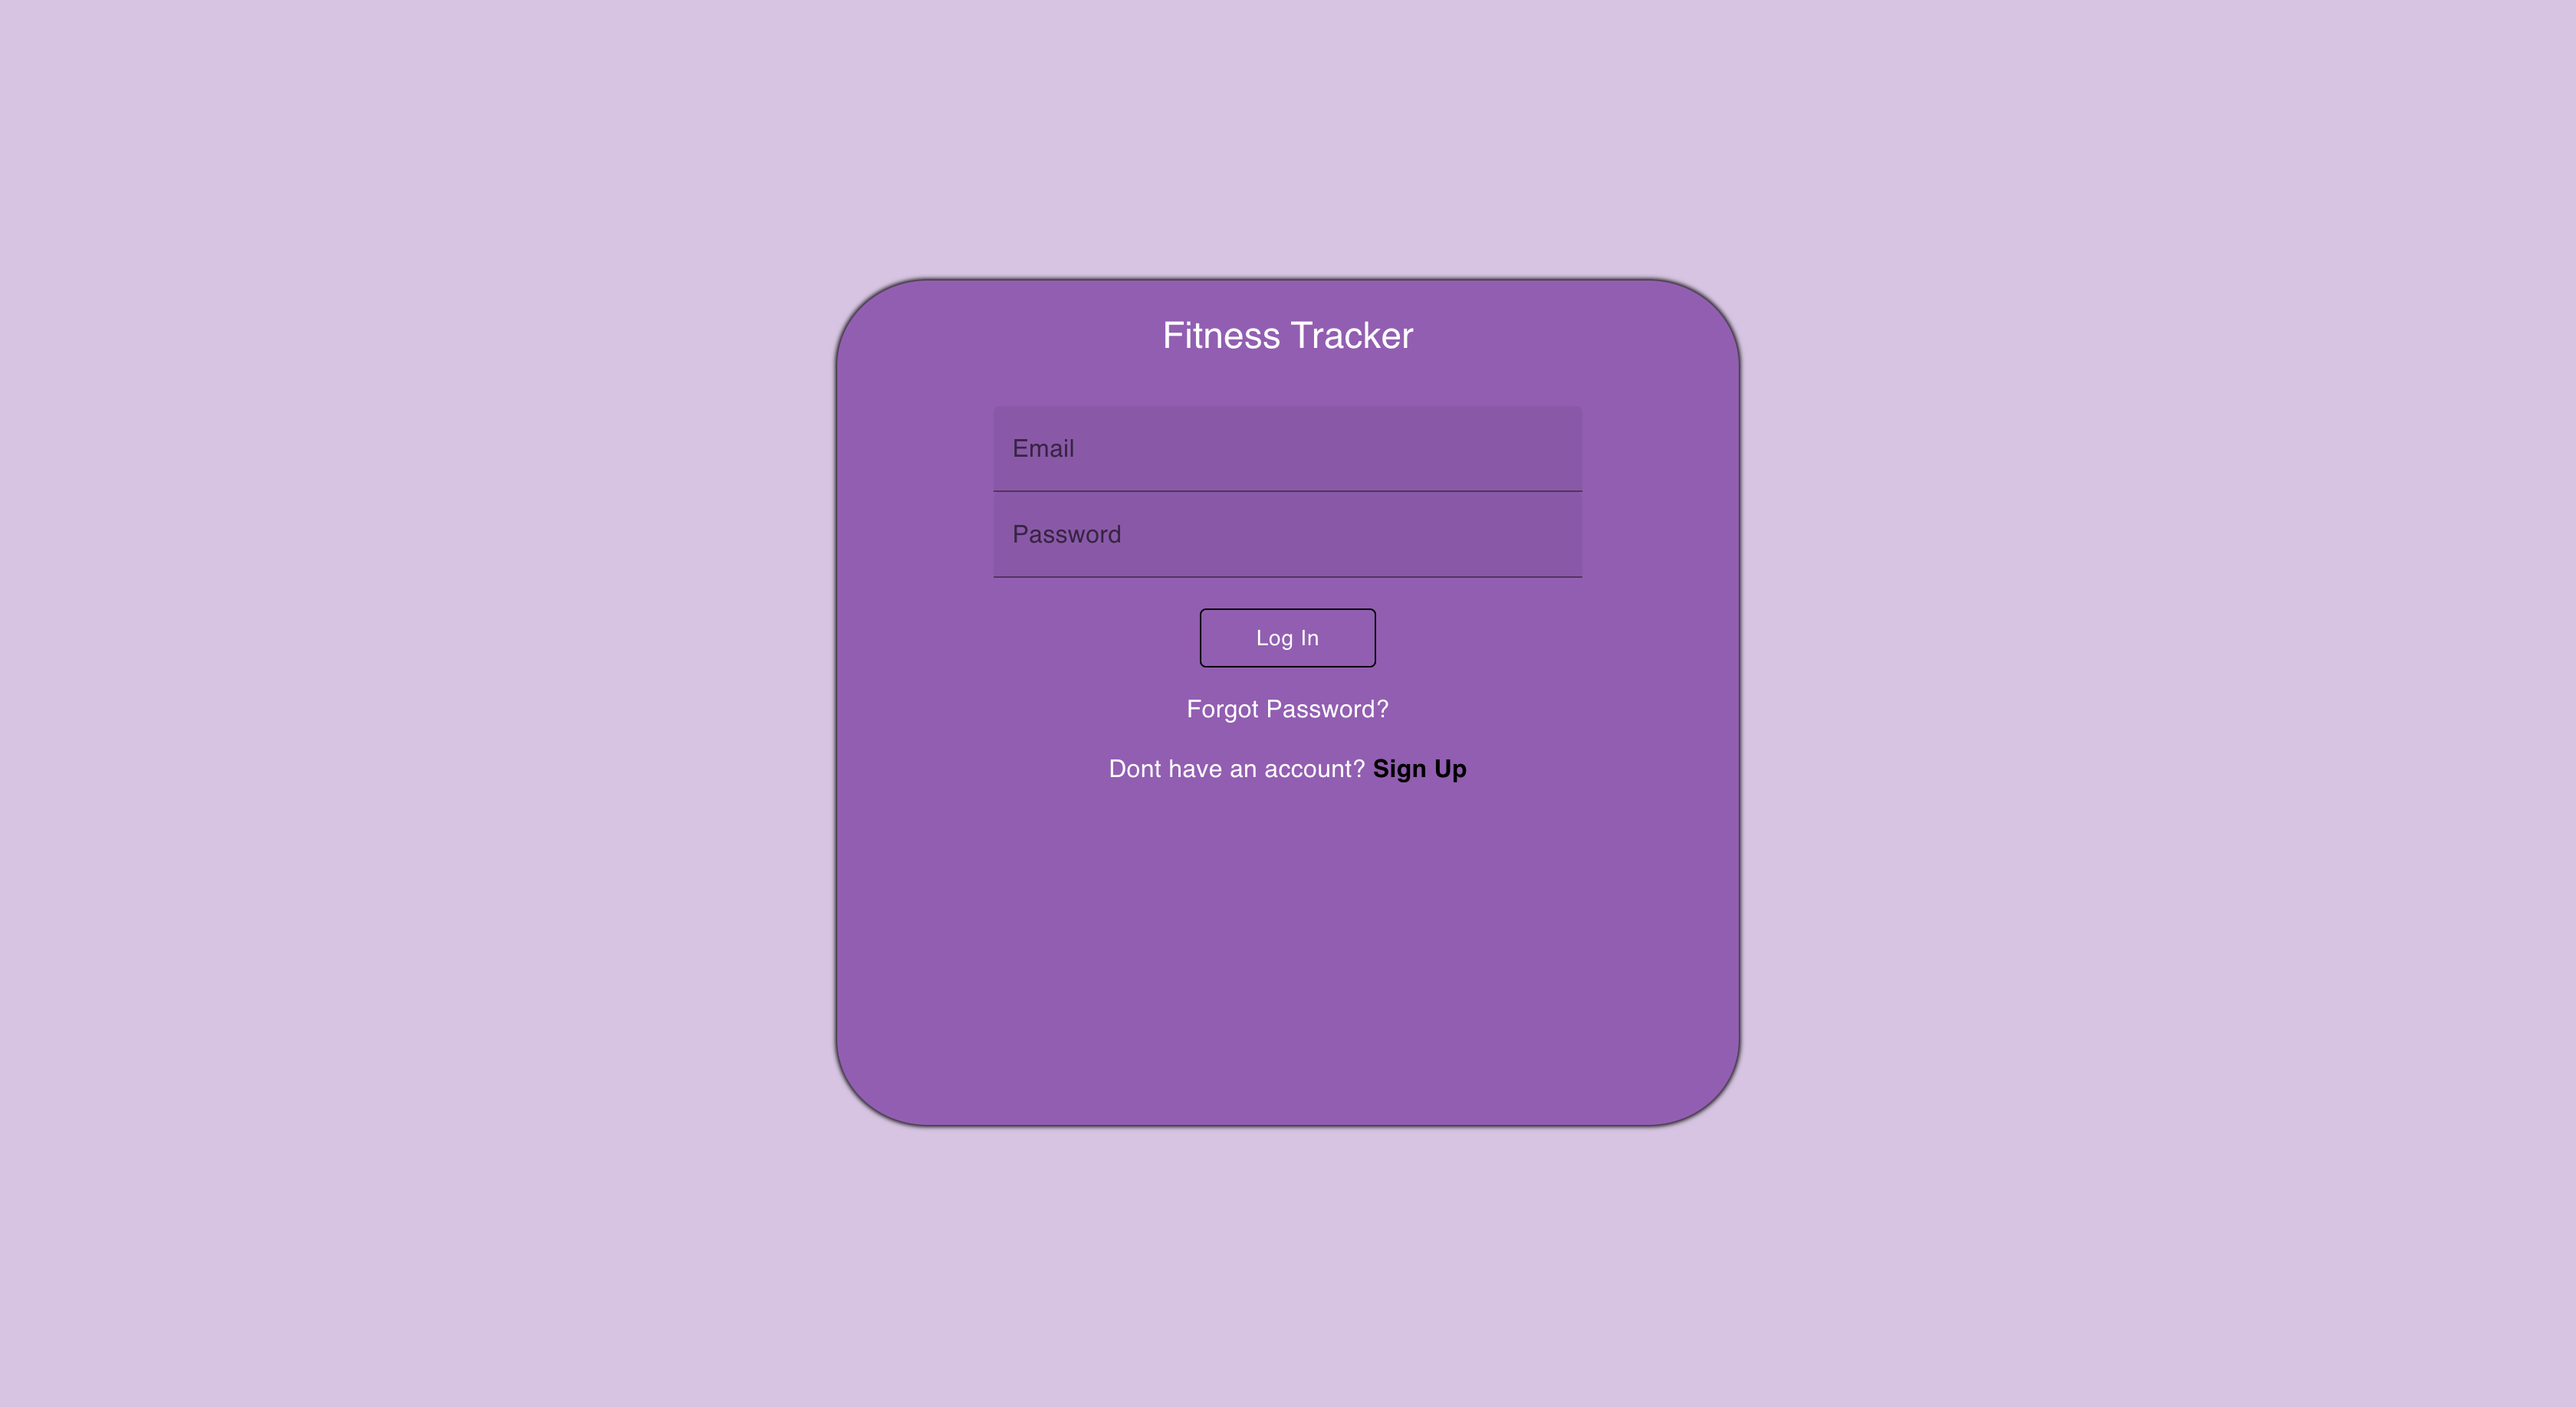
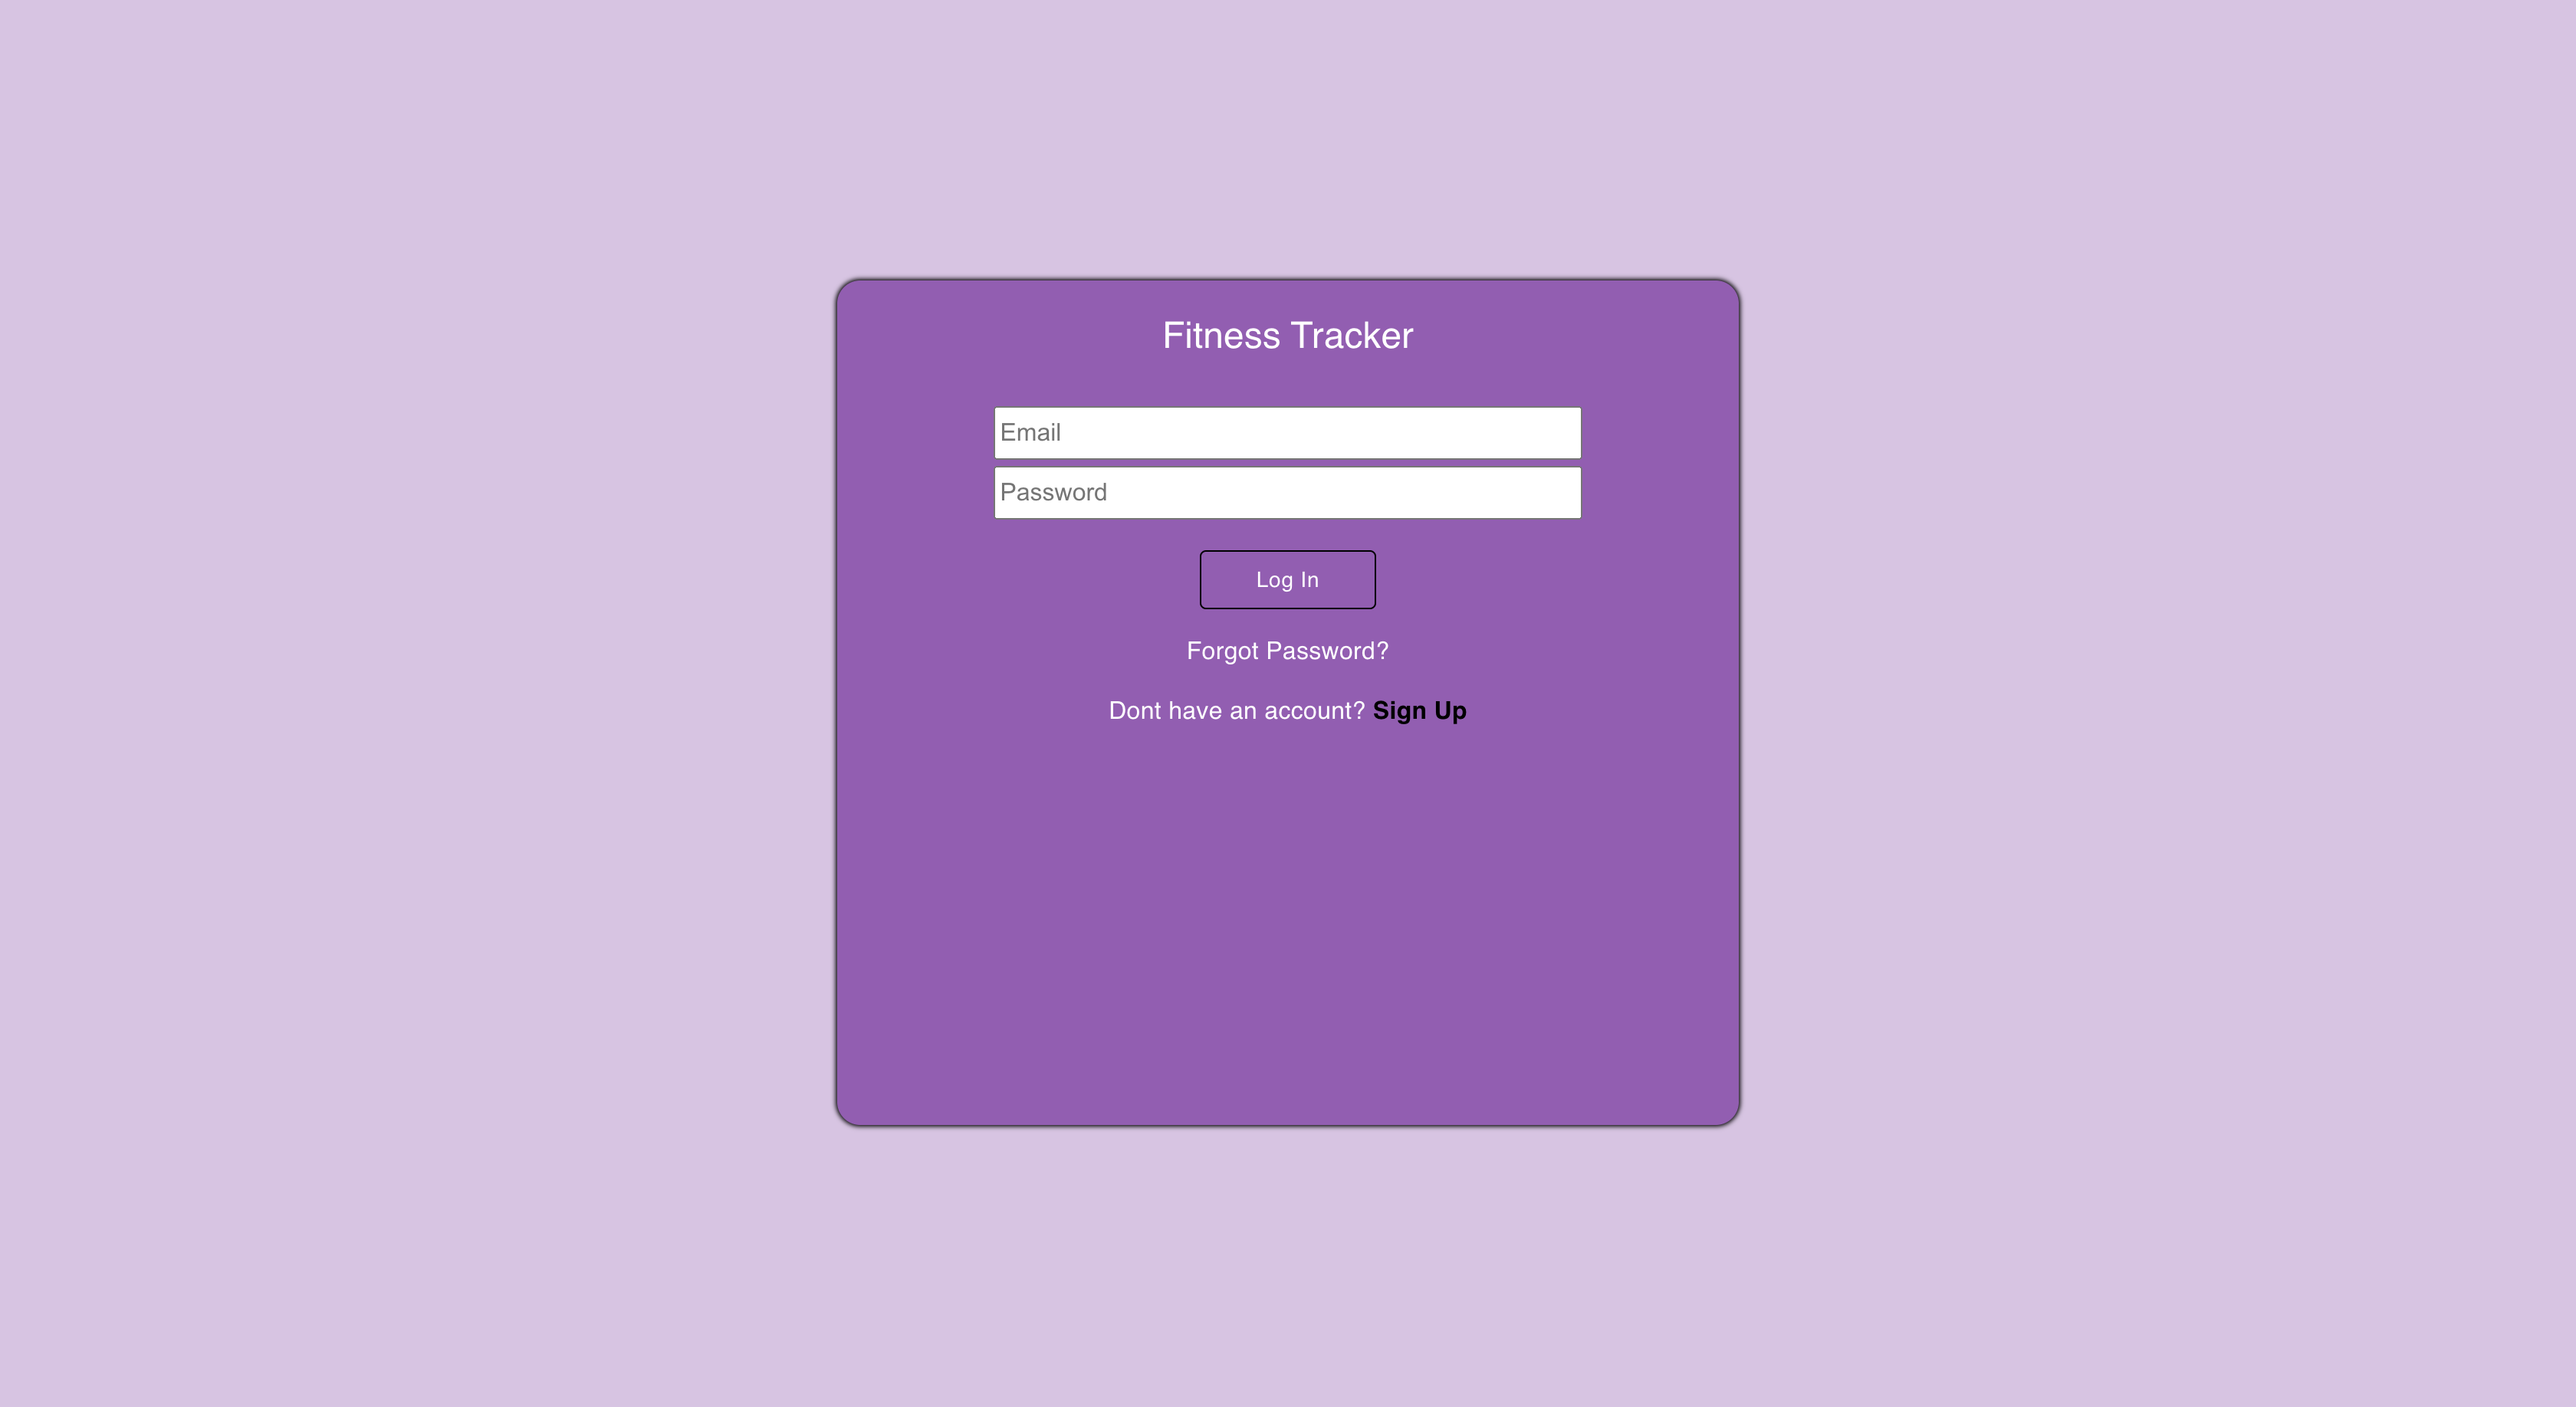
Minor UI/UX changes made to Login Page

diff --git a/src/pages/Login.jsx b/src/pages/Login.jsx
@@ -1,6 +1,6 @@
 import React, { useState } from 'react'
 import { useNavigate } from 'react-router-dom'
-import { Box, Typography, TextField, Button } from '@mui/material'
+import { Box, Typography, Button } from '@mui/material'
 
 const Login = () => {
     const navigate = useNavigate()
@@ -28,23 +28,17 @@ const Login = () => {
                 alignItems: 'center',
                 backgroundColor: '#9b59b6',
                 padding: '20px',
-                borderRadius: '10%',
+                borderRadius: '15px',
                 boxShadow: '0px 0px 3px 1px black',
             }}>
                 <Typography variant='h5' sx={{ textAlign: 'center', marginBottom: '30px' }}>Fitness Tracker</Typography>
                 <form onSubmit={onSubmitHandler} style={{ display: 'flex', flexDirection: 'column', width: '70%' }}>
-                    <TextField
-                        variant='filled'
-                        label='Email'
-                    />
-                    <TextField
-                        variant='filled'
-                        label='Password'
-                    />
+                    <input placeholder='Email' style={{ height: '35px', fontSize: '16px', marginBottom: '2px' }}></input>
+                    <input placeholder='Password' style={{ height: '35px', fontSize: '16px', marginTop: '2px' }}></input>
                     <Button variant='filled' style={{ marginTop: '20px', alignSelf: 'center', width: '30%', border: '1px solid black', textTransform: 'none' }} type="submit">Log In</Button>
                 </form>
                 <Typography style={{ marginTop: '15px' }}>Forgot Password?</Typography>
-                <Typography style={{ marginTop: '15px' }}>Dont have an account? <span style={{ color: 'black', fontWeight: 'bold' }}>Sign Up</span></Typography>
+                <Typography style={{ marginTop: '15px' }}>Dont have an account? <a href='/' style={{ color: 'black', fontWeight: 'bold', textDecorationLine: 'none' }}>Sign Up</a></Typography>
             </Box>
         </Box>
     )
